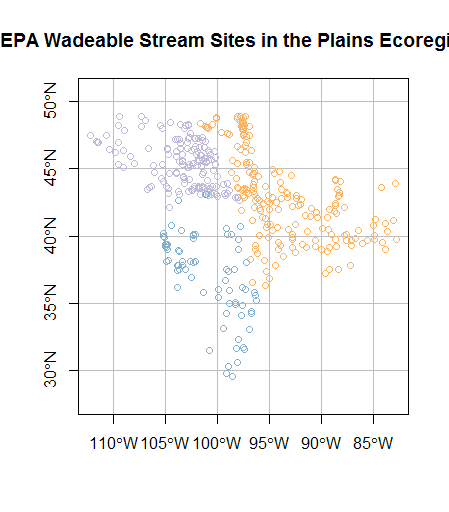
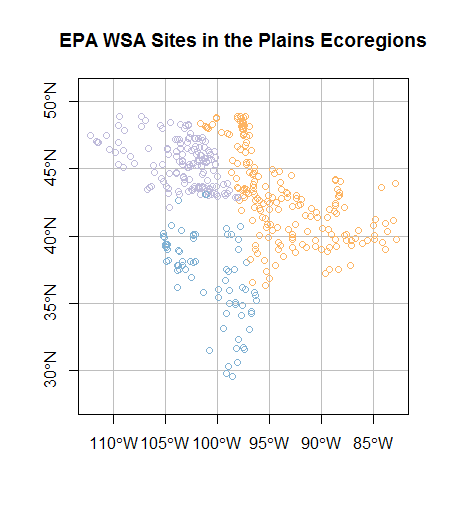
Update plot

Changed region(s): [[0.0, 0.0625, 1.0, 0.125]]

diff --git a/_posts/2018-04-22-05-Spatial-Data-In-R-sf.md b/_posts/2018-04-22-05-Spatial-Data-In-R-sf.md
@@ -85,7 +85,7 @@ Note that this is now still a dataframe but with an additional geometry column.
 We can do simple plotting just as with `sp` spatial objects...note how it's easy to use graticules as a parameter for `plot` in `sf`.
 
 ```r
-plot(wsa_plains[,46], main='EPA Wadeable Stream Sites in the Plains Ecoregions', graticule = st_crs(wsa_plains), axes=TRUE)
+plot(wsa_plains[,46], main='EPA WSA Sites in the Plains Ecoregions', graticule = st_crs(wsa_plains), axes=TRUE)
 ```
 
 ![WSASites](/AWRA_GIS_R_Workshop/figure/WSASites.png)
